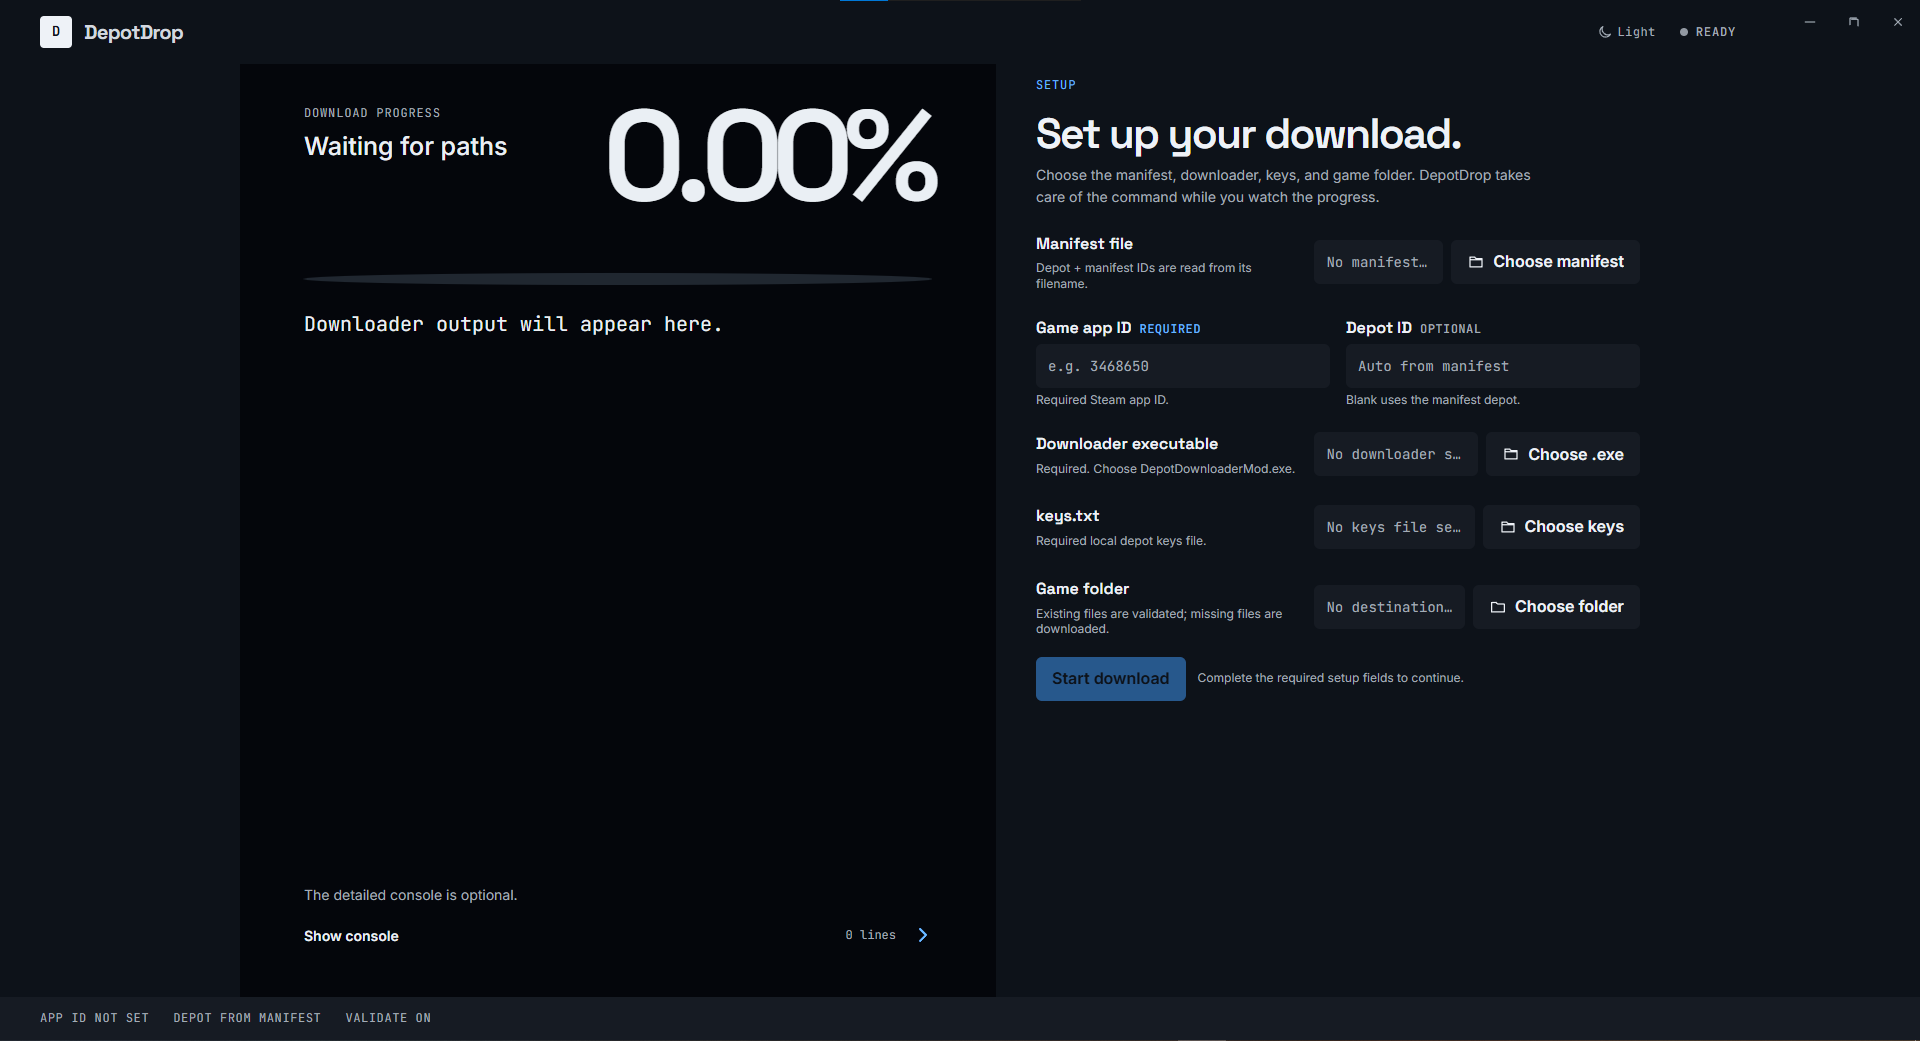
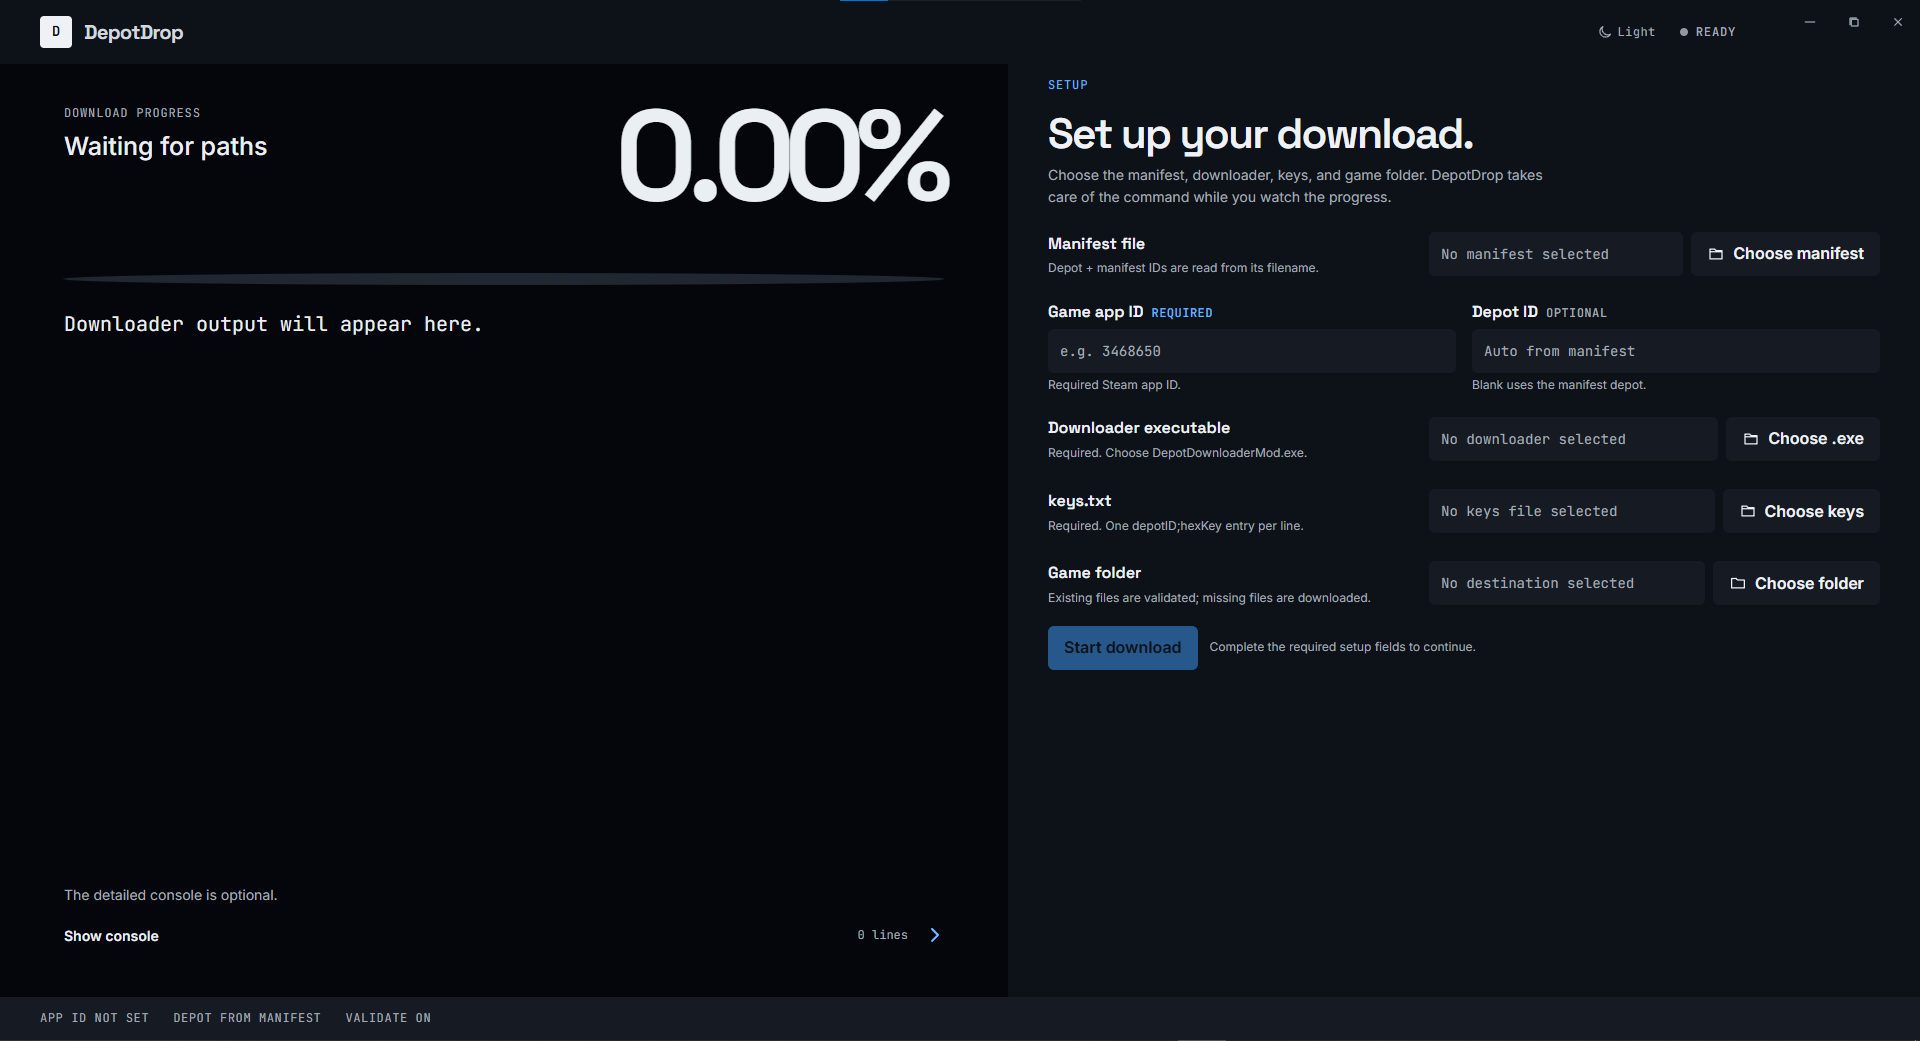
Clarify manifest and depot key formats

diff --git a/frontend/src/main.js b/frontend/src/main.js
@@ -28,7 +28,7 @@ document.querySelector('#app').innerHTML = `
       <div class="path-field__control"><input id="downloader-path" type="text" readonly aria-required="true" aria-describedby="downloader-help" placeholder="No downloader selected"><button class="button button--secondary" id="choose-downloader" type="button"><svg aria-hidden="true" viewBox="0 0 24 24"><path d="M4 5.5h6l2 2h8v11H4zM4 9h16"/></svg>Choose .exe</button></div>
     </div>
     <div class="path-field" id="keys-field" data-state="default">
-      <div class="path-field__copy"><label for="keys-path">keys.txt</label><p id="keys-help">Required local depot keys file.</p></div>
+      <div class="path-field__copy"><label for="keys-path">keys.txt</label><p id="keys-help">Required. One depotID;hexKey entry per line.</p></div>
       <div class="path-field__control"><input id="keys-path" type="text" readonly aria-required="true" aria-describedby="keys-help" placeholder="No keys file selected"><button class="button button--secondary" id="choose-keys" type="button"><svg aria-hidden="true" viewBox="0 0 24 24"><path d="M4 5.5h6l2 2h8v11H4zM4 9h16"/></svg>Choose keys</button></div>
     </div>
     <div class="path-field" id="folder-field" data-state="default">

diff --git a/download.go b/download.go
@@ -61,7 +61,7 @@ func inspectManifest(path string) (ManifestInfo, error) {
 	name := filepath.Base(path)
 	parts := manifestNamePattern.FindStringSubmatch(name)
 	if len(parts) != 3 {
-		return ManifestInfo{}, errors.New("manifest filename must look like 3468651_795493147105120679.manifest")
+		return ManifestInfo{}, errors.New("manifest filename must look like DEPOTID_MANIFESTID.manifest")
 	}
 
 	return ManifestInfo{Path: path, Name: name, DepotID: parts[1], ManifestID: parts[2]}, nil

diff --git a/README.md b/README.md
@@ -12,8 +12,8 @@ Download the latest ready-to-run `.exe` from the [GitHub Releases page](https://
 
 ## What it does
 
-- Reads `3468651_795493147105120679.manifest` filenames safely.
-- Reads the depot ID and manifest ID from filenames such as `3468651_795493147105120679.manifest`.
+- Reads any manifest filename matching `DEPOTID_MANIFESTID.manifest`.
+- Extracts the depot ID and manifest ID from that filename; the values are not hardcoded to a particular game.
 - Accepts any numeric game app ID, so the UI is not tied to one community or game.
 - Lets users choose `DepotDownloaderMod.exe` and `keys.txt` from any local paths.
 - Runs the downloader with `-validate` using process arguments instead of a shell command.
@@ -27,8 +27,18 @@ You need these local inputs:
 ```text
 DepotDownloaderMod.exe
 keys.txt
-3468651_795493147105120679.manifest
+<depotID>_<manifestID>.manifest
 ```
+
+### `keys.txt` format
+
+Use plain text with one depot key per line:
+
+```text
+<depotID>;<hexKey>
+```
+
+For example, a file containing keys for two depots has two lines. Use the 64-character hexadecimal depot decryption key supplied for each depot; do not include quotes or extra formatting.
 
 They do not need to be in the same folder. DepotDrop never downloads, embeds, uploads, or commits the downloader or keys file; users select their own trusted copies.
 
@@ -37,7 +47,7 @@ Then:
 1. Build or download `DDM-GUI.exe`.
 2. Open the app.
 3. Enter the game app ID (required).
-4. Choose the `.manifest` file. The depot ID is filled from its filename when possible.
+4. Choose a `.manifest` file named `DEPOTID_MANIFESTID.manifest`. The depot ID is filled from its filename when possible.
 5. Choose `DepotDownloaderMod.exe`.
 6. Choose `keys.txt`.
 7. Choose an existing game destination folder.
